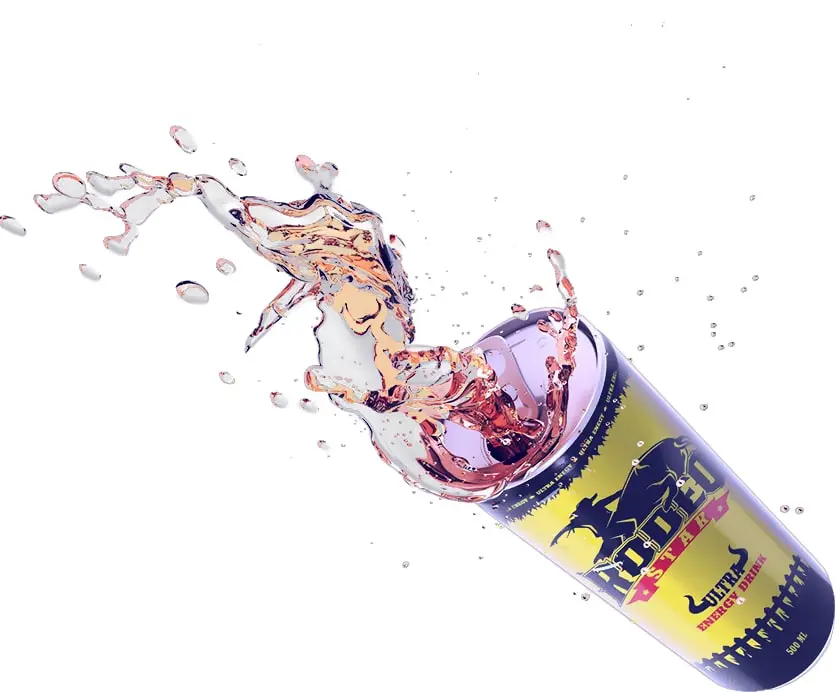
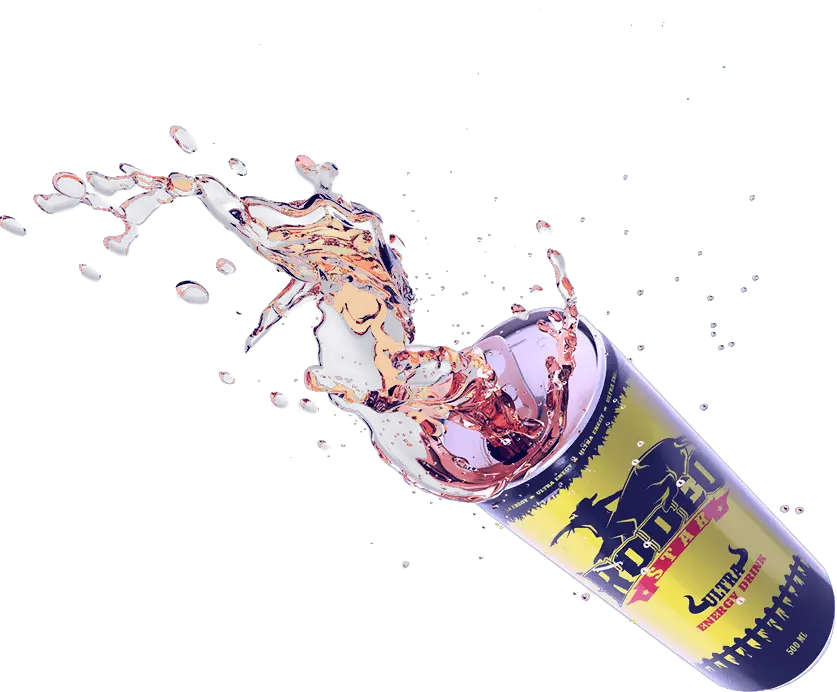
correct: top-can images jpg to png

diff --git a/src/blocks/promo/promo.scss b/src/blocks/promo/promo.scss
@@ -5,7 +5,7 @@
   position: relative;
   // overflow-y: hidden;
 
-  background-image: url(../img/top-can-mobile@1x.jpg);
+  background-image: url(../img/top-can-mobile@1x.png);
   background-position: 50% 80%;
   background-repeat: no-repeat;
 
@@ -14,7 +14,7 @@
   }
 
   @media (min-width: $width-tablet-album) {
-    background-image: url(../img/top-can-desktop@1x.jpg);
+    background-image: url(../img/top-can-desktop@1x.png);
     
     background-position: 170% 90%;
   }
